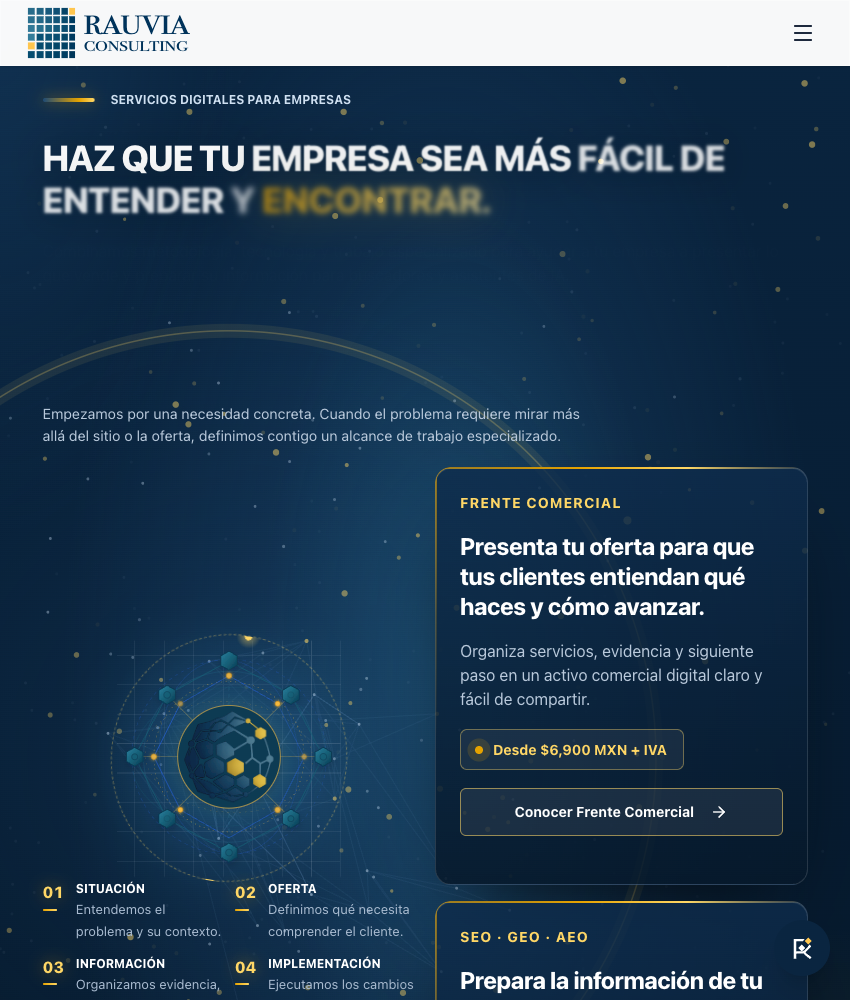
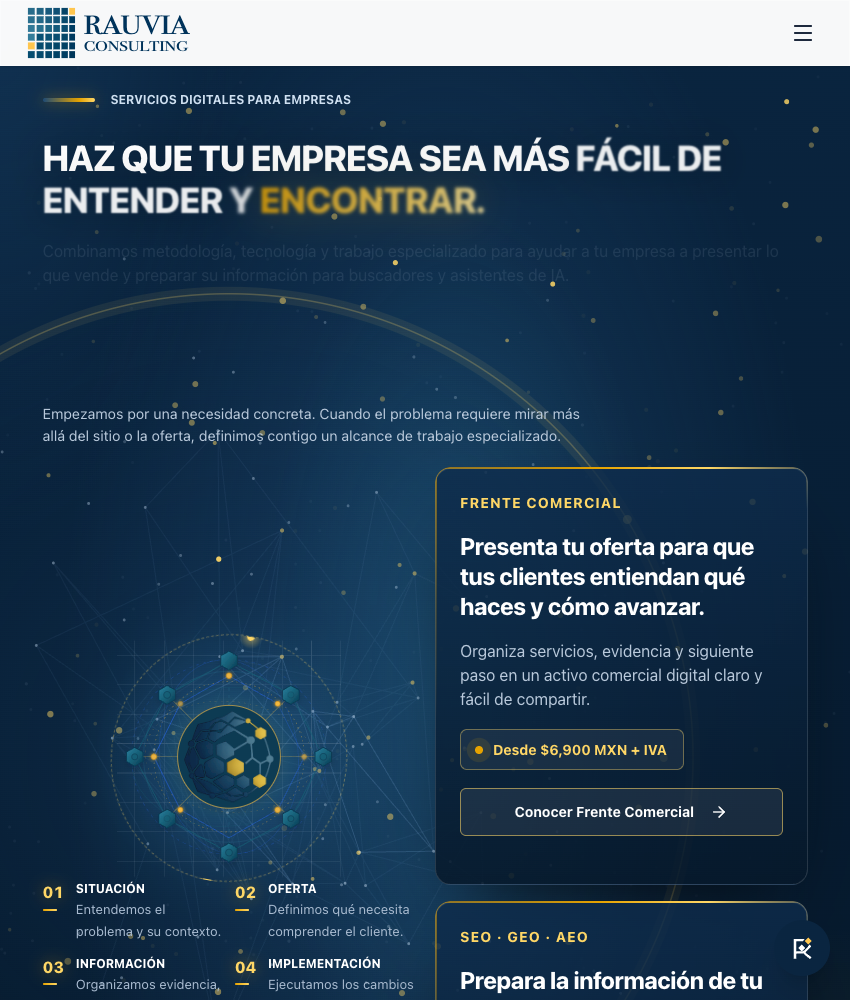
test(olab): refresca líneas base RAU-004 de seis rutas y recaptura la evidencia de navegador tras B1/B2
Autorizado por el propietario. Cambios semánticos: 0; contenido: 6 (ver tests/fixtures/BASELINE_LOG.md).
/recursos no se refresca: ya fallaba en main. La aprobación visual del Hero queda pendiente.

Changed region(s): [[0.0306, 0.124, 0.8565, 0.217], [0.3059, 0.279, 0.3365, 0.31]]

diff --git a/tests/fixtures/BASELINE_LOG.md b/tests/fixtures/BASELINE_LOG.md
@@ -340,3 +340,14 @@ Semánticos: 6 · Contenido: 6
 - rau004-main-baseline.json /seo-local-para-medicos contenido
 - rau004-main-baseline.json /pagina-web-para-medicos contenido
 - rau004-main-baseline.json /pagina-web-para-consultorio-medico contenido
+
+## 2026-11-27 · e418d48
+Motivo: Ola B (B1 sección por necesidad en /frente-comercial; B2 bloque de decisión, casos relacionados y puente en la guía). Contenido añadido por contrato v1.1; sin cambios semánticos.
+Semánticos: 0 · Contenido: 6
+- rau004-main-baseline.json /frente-comercial contenido
+- rau004-main-baseline.json /recursos/seo-para-ia contenido
+- rau004-main-baseline.json /seo-ai/corregir-informacion-en-ia contenido
+- rau004-main-baseline.json /seo-ai/catalogos-para-ia contenido
+- rau004-main-baseline.json /seo-ai/cobertura-y-envios contenido
+- rau004-main-baseline.json /seo-ai/proveedores-tecnicos contenido
+Nota: /recursos también cambió en la simulación pero ya fallaba en main antes de la Ola B; no se refrescó y queda como fallo previo.
